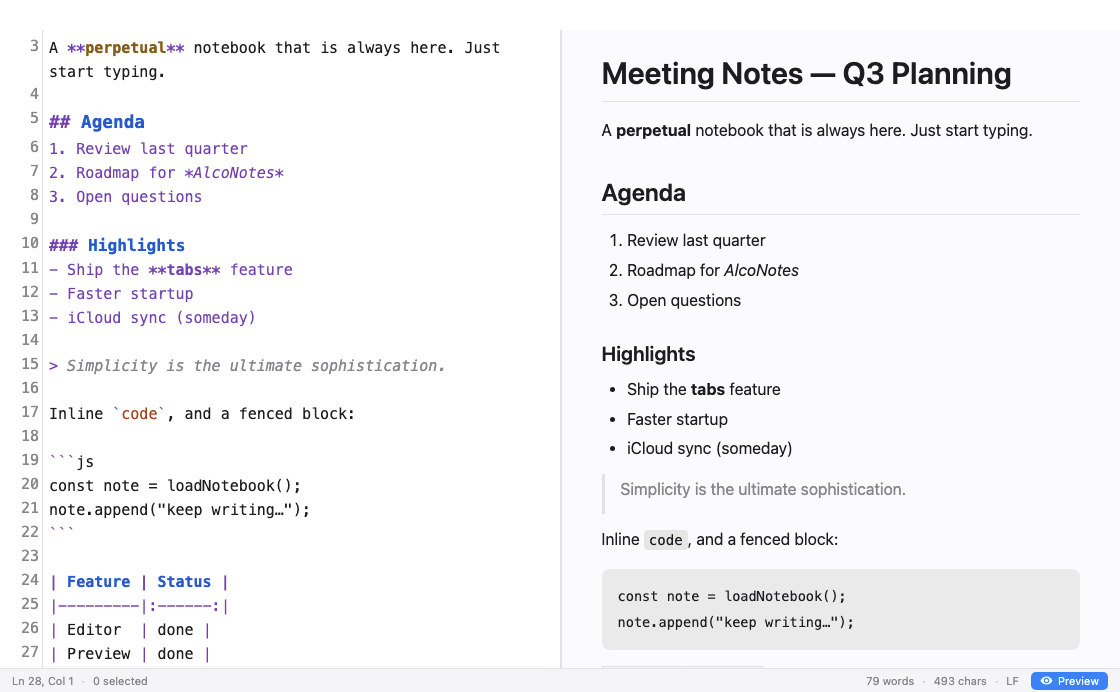
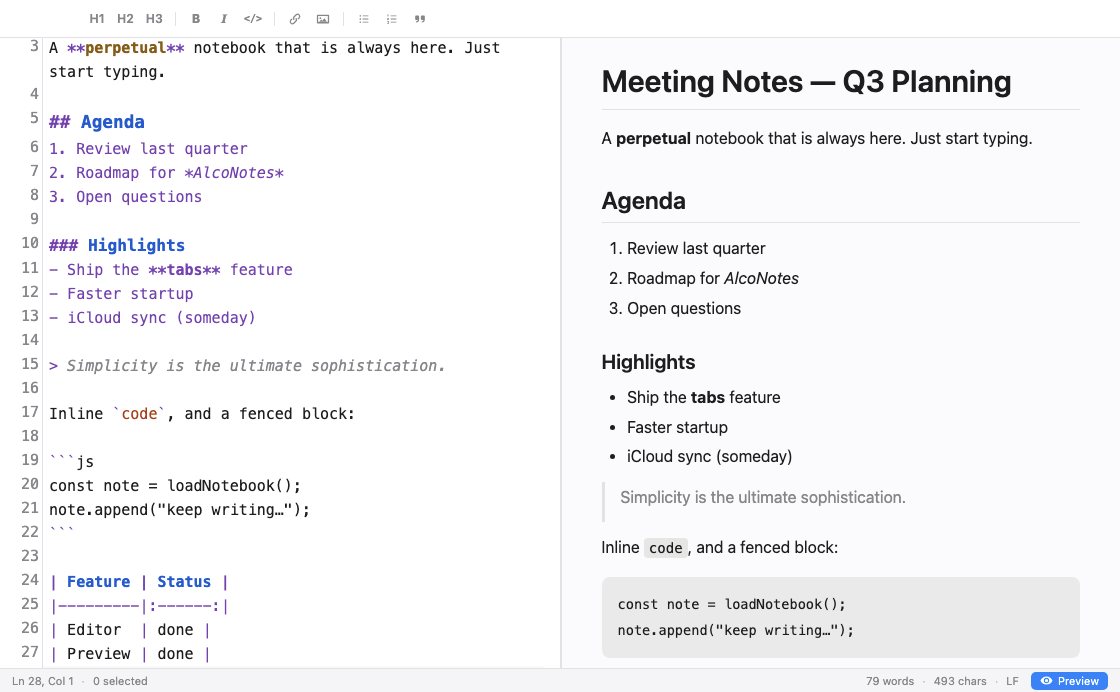
feat: formatting toolbar + Image command in Format menu
- Format menu gains Image (⌘⇧I) next to Link; inserts ![alt](url)
  using the selection as alt text, with the url placeholder selected
- New slim toolbar in the title-bar strip: H1-H3, bold, italic, code,
  link, image, bulleted/numbered list, blockquote
- Toolbar buttons keep editor focus/selection (mousedown prevented)
- Refresh README screenshots and shortcut table

diff --git a/styles.css b/styles.css
@@ -39,12 +39,55 @@ html, body {
   height: 100vh;
 }
 
-/* Reserve space for the macOS traffic lights (hiddenInset title bar). */
+/* Title-bar strip: drag region (macOS traffic lights) + formatting toolbar. */
 #titlebar-drag {
-  height: 30px;
+  height: 38px;
   flex: 0 0 auto;
+  display: flex;
+  align-items: center;
   -webkit-app-region: drag;
   background: var(--bg);
+  border-bottom: 1px solid var(--border);
+}
+
+#toolbar {
+  display: flex;
+  align-items: center;
+  gap: 2px;
+  /* Clear the traffic lights on the hiddenInset title bar. */
+  padding: 0 10px 0 84px;
+  -webkit-app-region: drag;
+  user-select: none;
+}
+
+#toolbar button {
+  -webkit-app-region: no-drag;
+  display: inline-flex;
+  align-items: center;
+  justify-content: center;
+  min-width: 26px;
+  height: 24px;
+  padding: 0 5px;
+  font-family: var(--font-ui);
+  font-size: 12px;
+  font-weight: 600;
+  color: var(--muted);
+  background: transparent;
+  border: none;
+  border-radius: 5px;
+  cursor: default;
+}
+#toolbar button:hover { background: rgba(135,131,120,0.15); color: var(--fg); }
+#toolbar button:active { background: rgba(135,131,120,0.28); }
+#toolbar button svg { display: block; }
+#toolbar .g-bold { font-weight: 800; }
+#toolbar .g-italic { font-style: italic; font-family: Georgia, serif; font-weight: 600; }
+#toolbar .g-code { font-family: var(--font-mono); font-size: 10px; font-weight: 700; }
+#toolbar .tb-sep {
+  width: 1px;
+  height: 14px;
+  margin: 0 5px;
+  background: var(--border);
 }
 
 #workspace {

diff --git a/index.html b/index.html
@@ -9,7 +9,34 @@
   </head>
   <body>
     <div id="app">
-      <div id="titlebar-drag"></div>
+      <div id="titlebar-drag">
+        <div id="toolbar">
+          <button type="button" data-format="h1" title="Heading 1 (⌘1)">H1</button>
+          <button type="button" data-format="h2" title="Heading 2 (⌘2)">H2</button>
+          <button type="button" data-format="h3" title="Heading 3 (⌘3)">H3</button>
+          <span class="tb-sep"></span>
+          <button type="button" data-format="bold" title="Bold (⌘B)"><span class="g-bold">B</span></button>
+          <button type="button" data-format="italic" title="Italic (⌘I)"><span class="g-italic">I</span></button>
+          <button type="button" data-format="code" title="Inline Code (⌘K)"><span class="g-code">&lt;/&gt;</span></button>
+          <span class="tb-sep"></span>
+          <button type="button" data-format="link" title="Link (⌘⇧K)">
+            <svg viewBox="0 0 16 16" width="14" height="14" aria-hidden="true"><path fill="currentColor" d="M9.4 6.6a3.2 3.2 0 0 1 0 4.5l-2.3 2.3a3.2 3.2 0 0 1-4.5-4.5l1.5-1.5 1 1-1.5 1.5a1.8 1.8 0 0 0 2.5 2.5l2.3-2.3a1.8 1.8 0 0 0 0-2.5l1-1Zm-2.8 2.8a3.2 3.2 0 0 1 0-4.5l2.3-2.3a3.2 3.2 0 0 1 4.5 4.5l-1.5 1.5-1-1 1.5-1.5a1.8 1.8 0 0 0-2.5-2.5L7.6 5.9a1.8 1.8 0 0 0 0 2.5l-1 1Z"/></svg>
+          </button>
+          <button type="button" data-format="image" title="Image (⌘⇧I)">
+            <svg viewBox="0 0 16 16" width="14" height="14" aria-hidden="true"><path fill="currentColor" d="M2 3h12a1 1 0 0 1 1 1v8a1 1 0 0 1-1 1H2a1 1 0 0 1-1-1V4a1 1 0 0 1 1-1Zm.5 1.5v7h11v-7h-11ZM5 6a1 1 0 1 1 0 2 1 1 0 0 1 0-2Zm-1.5 5h9l-3-4-2.25 3-1.25-1.5-2.5 2.5Z"/></svg>
+          </button>
+          <span class="tb-sep"></span>
+          <button type="button" data-format="ul" title="Bulleted List (⌘⇧8)">
+            <svg viewBox="0 0 16 16" width="14" height="14" aria-hidden="true"><path fill="currentColor" d="M3 3.6h1.6v1.6H3V3.6Zm3.4.3H13v1H6.4v-1ZM3 7.2h1.6v1.6H3V7.2Zm3.4.3H13v1H6.4v-1ZM3 10.8h1.6v1.6H3v-1.6Zm3.4.3H13v1H6.4v-1Z"/></svg>
+          </button>
+          <button type="button" data-format="ol" title="Numbered List (⌘⇧7)">
+            <svg viewBox="0 0 16 16" width="14" height="14" aria-hidden="true"><path fill="currentColor" d="M6.4 3.9H13v1H6.4v-1Zm0 3.6H13v1H6.4v-1Zm0 3.6H13v1H6.4v-1ZM3.9 2.8v2.4h-.8V3.7l-.6.3v-.8l.9-.4h.5Zm-1.4 4h1.9v.7l-1 .9h1v.7h-2v-.7l1-.9h-.9v-.7Zm0 3.6h1.9v1.1l-.4.4.4.4v1.1H2.5v-.7h1.1v-.4l-.5-.4.5-.4v-.4H2.5v-.7Z"/></svg>
+          </button>
+          <button type="button" data-format="quote" title="Blockquote (⌘⇧.)">
+            <svg viewBox="0 0 16 16" width="14" height="14" aria-hidden="true"><path fill="currentColor" d="M3.5 4H6a1 1 0 0 1 1 1v3.5A3.5 3.5 0 0 1 3.5 12v-1.4c1 0 1.9-.7 2-1.6H3.5a1 1 0 0 1-1-1V5a1 1 0 0 1 1-1Zm6.5 0h2.5a1 1 0 0 1 1 1v3.5a3.5 3.5 0 0 1-3.5 3.5v-1.4c1 0 1.9-.7 2-1.6H10a1 1 0 0 1-1-1V5a1 1 0 0 1 1-1Z"/></svg>
+          </button>
+        </div>
+      </div>
       <main id="workspace" class="view-split">
         <section id="editor-pane">
           <div id="editor"></div>

diff --git a/src/renderer.js b/src/renderer.js
@@ -397,12 +397,27 @@ function insertLink() {
   view.focus();
 }
 
+function insertImage() {
+  const state = view.state;
+  const r = state.selection.main;
+  const alt = state.doc.sliceString(r.from, r.to) || 'alt text';
+  const insert = `![${alt}](url)`;
+  view.dispatch({
+    changes: { from: r.from, to: r.to, insert },
+    // Select the "url" placeholder for quick typing.
+    selection: { anchor: r.from + alt.length + 4, head: r.from + alt.length + 7 },
+    scrollIntoView: true,
+  });
+  view.focus();
+}
+
 function applyFormat(kind) {
   switch (kind) {
     case 'bold': return wrapSelection('**');
     case 'italic': return wrapSelection('*');
     case 'code': return wrapSelection('`');
     case 'link': return insertLink();
+    case 'image': return insertImage();
     case 'h1': return setHeading(1);
     case 'h2': return setHeading(2);
     case 'h3': return setHeading(3);
@@ -437,6 +452,12 @@ function togglePreview() {
 }
 
 if (previewBtn) previewBtn.addEventListener('click', () => togglePreview());
+
+// Formatting toolbar — mousedown is prevented so the editor keeps focus/selection.
+document.querySelectorAll('#toolbar button[data-format]').forEach((btn) => {
+  btn.addEventListener('mousedown', (e) => e.preventDefault());
+  btn.addEventListener('click', () => applyFormat(btn.dataset.format));
+});
 
 function toggleLineNumbers() {
   showLineNumbers = !showLineNumbers;

diff --git a/main.js b/main.js
@@ -297,6 +297,7 @@ function buildMenu() {
         { label: 'Italic', accelerator: 'CmdOrCtrl+I', click: () => sendToFocused('menu:format', 'italic') },
         { label: 'Inline Code', accelerator: 'CmdOrCtrl+K', click: () => sendToFocused('menu:format', 'code') },
         { label: 'Link', accelerator: 'CmdOrCtrl+Shift+K', click: () => sendToFocused('menu:format', 'link') },
+        { label: 'Image', accelerator: 'CmdOrCtrl+Shift+I', click: () => sendToFocused('menu:format', 'image') },
         { type: 'separator' },
         { label: 'Heading 1', accelerator: 'CmdOrCtrl+1', click: () => sendToFocused('menu:format', 'h1') },
         { label: 'Heading 2', accelerator: 'CmdOrCtrl+2', click: () => sendToFocused('menu:format', 'h2') },

diff --git a/README.md b/README.md
@@ -54,7 +54,7 @@ left off.
 | 🌗 **Native & theme-aware** | Hidden-inset title bar, system fonts, and automatic light/dark that follows macOS. |
 | 💾 **Save only if you want** | `⌘S` / Save As exports a `.md` copy without disturbing your notebook. `⌘N` opens a throwaway doc; `⌘O` opens any file. |
 | 🔎 **Find & Replace** | `⌘F` / `⌘⌥F` powered by CodeMirror's search. |
-| 🔠 **Formatting shortcuts** | Bold, italic, code, links, headings, lists & blockquotes — all one keystroke away. |
+| 🔠 **Toolbar & shortcuts** | Bold, italic, code, links, images, headings, lists & blockquotes — one click on the toolbar or one keystroke away. |
 | 📊 **Live status bar** | Line/column, selection length, word count & character count. |
 
 ## 📥 Get it
@@ -117,7 +117,7 @@ so it survives quits without a save.
 | Find | `⌘F` | | Inline Code / Link | `⌘K` / `⌘⇧K` |
 | Replace | `⌘⌥F` | | Heading 1–3 | `⌘1` · `⌘2` · `⌘3` |
 | Bulleted list | `⌘⇧8` | | Numbered list | `⌘⇧7` |
-| Blockquote | `⌘⇧.` | | | |
+| Blockquote | `⌘⇧.` | | Image | `⌘⇧I` |
 
 ## 🧱 How it's built
 